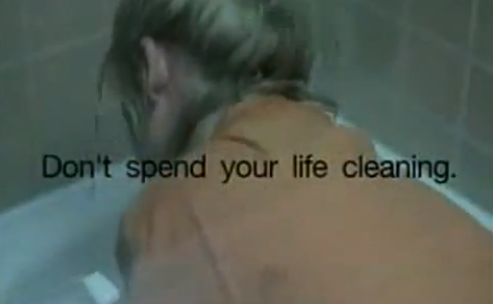
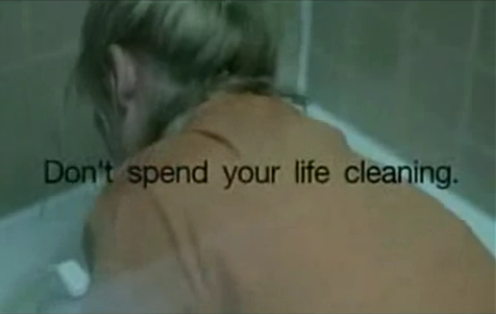
Updated my profile

diff --git a/profiles/my/index.html b/profiles/my/index.html
@@ -6,10 +6,10 @@
 	
 	<style>
 	  body{
-	       font-size: 22px;
+	       font-size:18px;
 	       font-family: monospace;
 	       background-image: url(background.gif);
-	       color: #153E7E; 
+	       color: #013979;  
 	      }
 	 .container{
 	         background: LightSteelBlue;
@@ -34,11 +34,21 @@
 	    font-family: : monospace;
 	    box-shadow: 10px 15px 10px rgba(0, 0, 0, 0.5);
 	 }
+	 .intro{
+	 	background: white;
+	 	max-width: 900px;
+	 	margin: 0 auto;
+	 	padding:5px;
+	 	box-shadow: 10px 10px 10px;
+	 }
+	 .VideoPic{
+	 	width: 500px;
+	 	height: 400px;
+	 }
 
 	 .profile{
 	   width: 150px;
-	   margin-top:5px;
-	   margin-right:20px;
+	   margin-right:30px;
 	 }
 
 	 .clear {
@@ -46,6 +56,18 @@
 	 }
 
 	</style>
+
+<script>
+  (function(i,s,o,g,r,a,m){i['GoogleAnalyticsObject']=r;i[r]=i[r]||function(){
+  (i[r].q=i[r].q||[]).push(arguments)},i[r].l=1*new Date();a=s.createElement(o),
+  m=s.getElementsByTagName(o)[0];a.async=1;a.src=g;m.parentNode.insertBefore(a,m)
+  })(window,document,'script','//www.google-analytics.com/analytics.js','ga');
+
+  ga('create', 'UA-40782114-1', 'bavc.org');
+  ga('send', 'pageview');
+
+</script>
+	
 	
 	</head>
   <body>
@@ -56,25 +78,37 @@
 
     <div class="container">
     <hr>
+    <div class="intro">
     <h2> About Me: </h2>
         <img class="profile" src="myphan.jpg" align="left"/>
-    <p> 
-    Hi all! <br>
-    My name is My Phan. I am a student at City College of San Francisco,
-    and I am going to transfer soon.<br>I am study to be a programmer 
-    but I want to become an UIUX designer.<br>
-    Hopefully, I can have a double major at the new school.<br>
-    Currently, I am taking a Video/Remix class at BAVC. Here is the video I make.
+     <p> 
+       Hi all! <br>
+       My name is My Phan. I am a student and member of BAVC program. 
+       Currently, I am working on my bachelor degree in computer science and hoping to be able to minor in graphic design.
+       I am study to be a programmer but my ultimate goal is to become an UIUX designer.<br>
+       I have a long way to go but I will try my best. 
+       Because of BAVC, I was able to learn how to remix and edit video. Here is my video! 
     </p>
-
+    </div>
+    
+    <h2>My Video:</h2>
     <a href="cleaning.html">
-    	<img src="cleaning_ss.png" align="right"/>
+    	<img class="VideoPic" src="cleaning_ss.png" align="right"/>
     </a>
     <p>
-    	For centuries, women have been view as a weaker and  
+    	Unintentionally or not, through the len of media, the only job that women need to do is to keep the house clean and take care of the family.
+    	It is true that not all media shows women as happy housewife. Different kinds of media show different kinds of 
+    	images and representation. However, the cleaning product commercial is the most common type of media that reinforce the traditional image about women. In most of commercial, women have almost always the person who cleans up after her family. Not only she has to clean up the mess but she is happy to do it. She will not feel tired or angry at the mess but only feel happy. Not only that, the commercial makes it look like the members of the family cannot clean up after themselves but can only depened on "mom." The video that I remixed an example of how the product company reinforce this image of a happy housewife who is willing to clean for her family.   
+
+    </p>
+    <br>
+    <p>
+    	<a href="http://www.ibtimes.com/us-17th-global-education-ranking-finland-south-korea-claim-top-spots-901538"> "United States is ranked 17th in education compare to the rest of developed countries"</a> <br>
+    	<a href="choices.html"><img class="VideoPic" src="choices.png" align="left"></a>
+    	 The country is one of the top country among the developed country, yet it is behind compare to others. So, why is this happen? There are many reasons why this happen. One of the reason can be the school system. Another is the ability of the student. However, the most important is the studied habit of the student. It does not matter what is the intellectual level of the student. As long as there is an adequate time to study, any students can be improved. <br>
+    	 The video here is a simple representation of two students and their choices before taking a test. The choices yield to obvious result, but students still choose to do the thing they do without changing their habit.    
     </p>
 
-    <br>
     <br>
     <br>
 

diff --git a/profiles/my/choices.html b/profiles/my/choices.html
@@ -68,8 +68,8 @@
     </div>
 	<div class="display">
 	<hr>
-	<p> Women in Commercials</p>
-	<iframe width="500" height="400" src="http://www.youtube.com/embed/LQtKPV1bcs0" frameborder="0" allowfullscreen></iframe>
+	<p> Choices & Consequences</p>
+	<iframe src='http://popcorn.webmadecontent.org/x1v_' width='560' height='358' frameborder='0' mozallowfullscreen webkitallowfullscreen allowfullscreen></iframe>
 	<hr>
     </div>
 	<div class="clear"></div>
